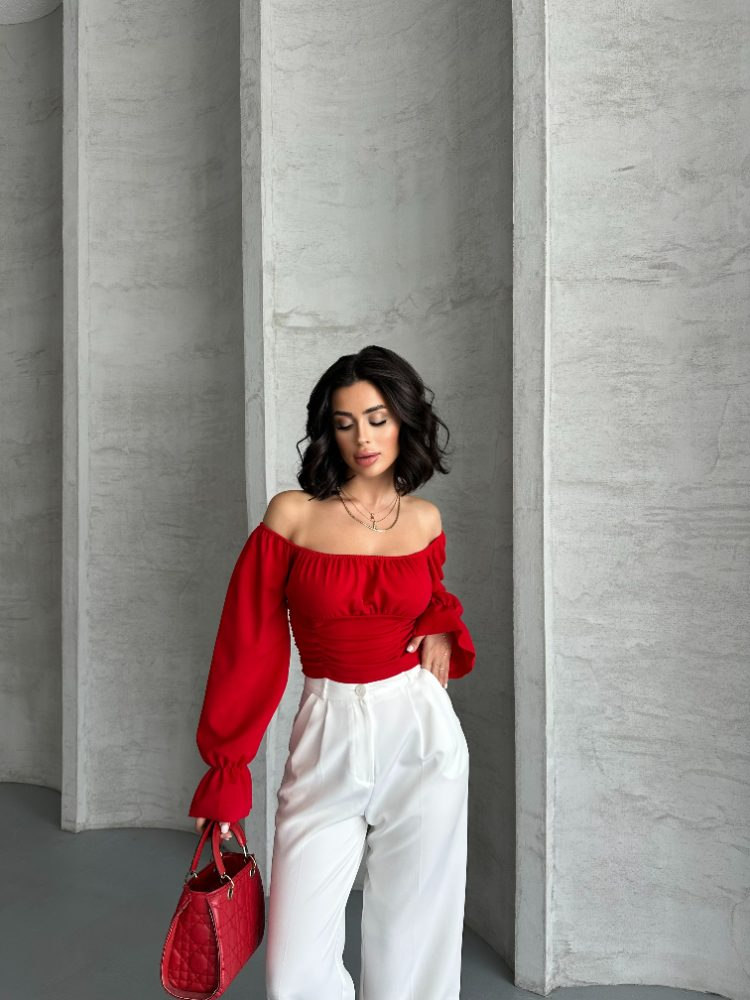
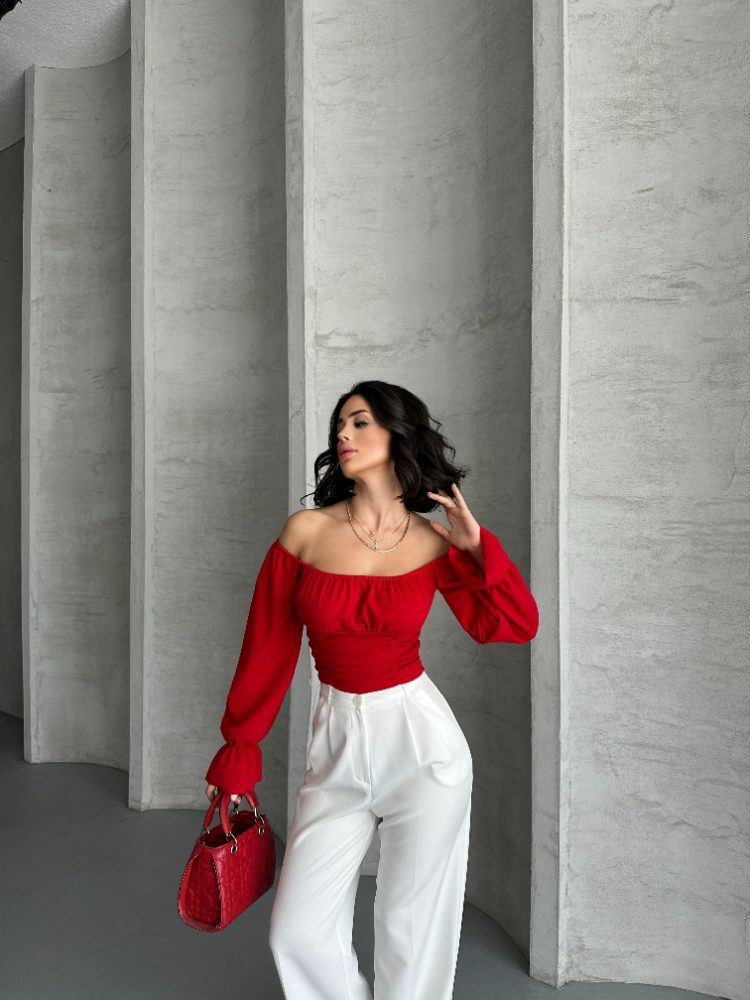
Add files via upload

diff --git a/index.html b/index.html
@@ -304,8 +304,7 @@ const EMBED={
    },
    "im": [
     "img/kirmizi-madonna-yaka-bluz-1.jpg",
-    "img/kirmizi-madonna-yaka-bluz-2.jpg",
-    "img/kirmizi-madonna-yaka-bluz-3.jpg"
+    "img/kirmizi-madonna-yaka-bluz-2.jpg"
    ],
    "t": "dress",
    "g": [
@@ -326,8 +325,7 @@ const EMBED={
     "XL": 5
    },
    "im": [
-    "img/siyah-madonna-yaka-bluz-1.jpg",
-    "img/siyah-madonna-yaka-bluz-2.jpg"
+    "img/bordo-madonna-yaka-bluz-1.jpg"
    ],
    "t": "dress",
    "g": [
